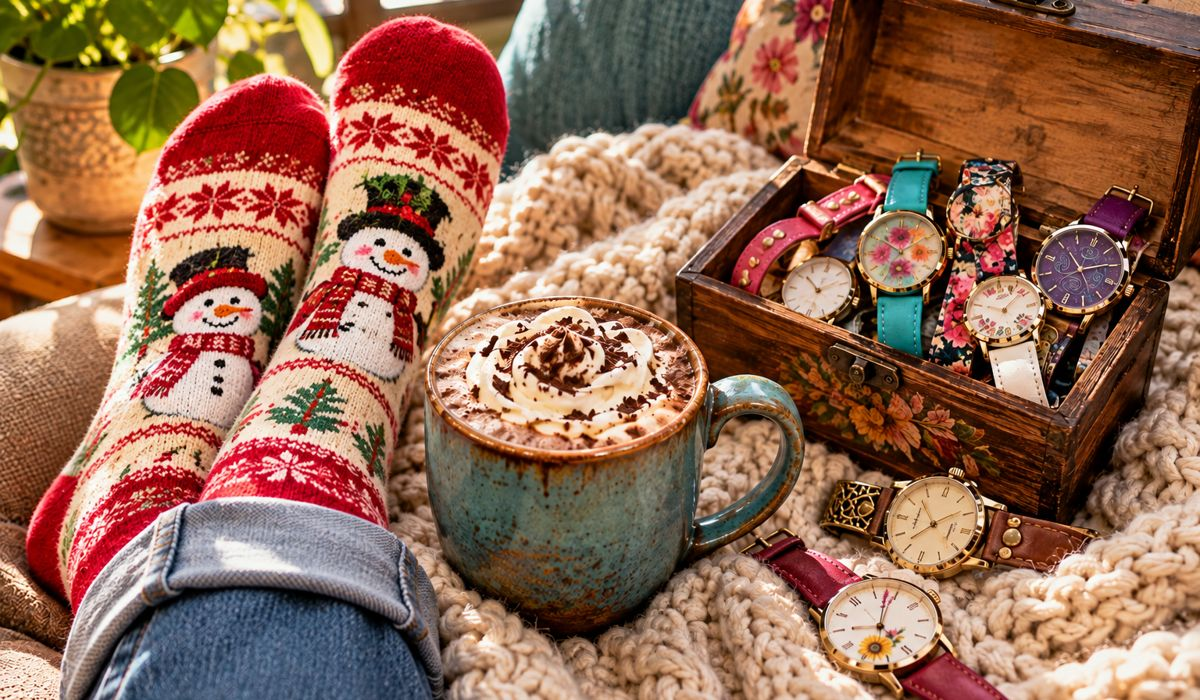
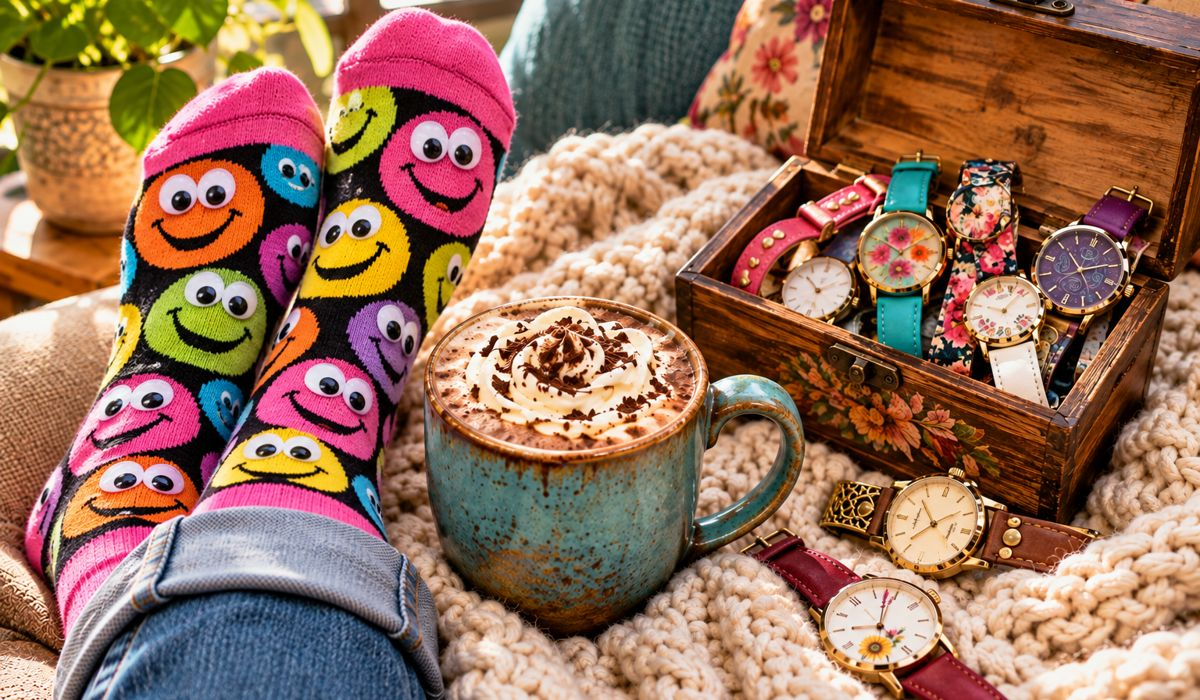
Pictures: everyday socks, winter drive, Tammey's fish tank
Claude-Session: https://claude.ai/code/session_019mceyNZZ2qR2bw7srWbZ76

diff --git a/overwhelmed-by-life-one-day-at-a-time.html b/overwhelmed-by-life-one-day-at-a-time.html
@@ -38,6 +38,7 @@
       <p class="lede">What a cold, dark pickup at 5 a.m. taught me about getting through just today.</p>
       <p class="byline"><img src="/images/tammey-sm.jpg" alt="" width="44" height="44"> By Tammey</p>
     </header>
+    <div class="wrap post-hero"><img src="/images/posts/overwhelmed-by-life-one-day-at-a-time-wide.jpg" alt="" width="1200" height="700"></div>
     <div class="wrap narrow">
       <div class="prose">
 <p>Have you ever cried in the shower?</p>
@@ -79,6 +80,7 @@
 <p>I couldn't focus on a book. My mind just wouldn't settle. But I <em>could</em> listen to an audiobook while I drove. So I did.</p>
 <p>I could put on a pair of pretty new socks. (Yes, the socks again. If you've read <a href="/self-care-isnt-selfish">my post about self-care</a>, you know.)</p>
 <p>I could sit and watch the fish in my beautiful fish tank, the one I loved so much.</p>
+<figure><img src="/images/posts/overwhelmed-by-life-one-day-at-a-time/fish-tank.jpg" alt="A colorful aquarium full of green plants, bright fish and a sunken ship, with trailing pothos plants on top" loading="lazy"><figcaption>My fish tank, one of the little things that got me through.</figcaption></figure>
 <p>None of these things fixed my life. But they gave me something good in today. And all of those little things added up. They lifted my spirits, and I started to heal.</p>
 <p>I also started each morning with a simple prayer:</p>
 <blockquote><p>"Lord, let me hear what you want me to hear, say what you want me to say, do what you want me to do, and see what you want me to see."</p></blockquote>

diff --git a/_source/posts/overwhelmed-by-life-one-day-at-a-time.html b/_source/posts/overwhelmed-by-life-one-day-at-a-time.html
@@ -37,6 +37,7 @@
 <p>I couldn't focus on a book. My mind just wouldn't settle. But I <em>could</em> listen to an audiobook while I drove. So I did.</p>
 <p>I could put on a pair of pretty new socks. (Yes, the socks again. If you've read <a href="/self-care-isnt-selfish">my post about self-care</a>, you know.)</p>
 <p>I could sit and watch the fish in my beautiful fish tank, the one I loved so much.</p>
+<figure><img src="/images/posts/overwhelmed-by-life-one-day-at-a-time/fish-tank.jpg" alt="A colorful aquarium full of green plants, bright fish and a sunken ship, with trailing pothos plants on top" loading="lazy"><figcaption>My fish tank, one of the little things that got me through.</figcaption></figure>
 <p>None of these things fixed my life. But they gave me something good in today. And all of those little things added up. They lifted my spirits, and I started to heal.</p>
 <p>I also started each morning with a simple prayer:</p>
 <blockquote><p>"Lord, let me hear what you want me to hear, say what you want me to say, do what you want me to do, and see what you want me to see."</p></blockquote>

diff --git a/resources.html b/resources.html
@@ -198,7 +198,7 @@
           </div>
         </a>
         <a class="post-card" href="/overwhelmed-by-life-one-day-at-a-time">
-          <div class="post-thumb thumb-purpose"><svg viewBox="0 0 24 24" fill="none" stroke="currentColor" stroke-width="1.4" stroke-linecap="round" stroke-linejoin="round" aria-hidden="true"><circle cx="12" cy="12" r="10"/><path d="m16.2 7.8-2.1 6.3-6.3 2.1 2.1-6.3z"/></svg></div>
+          <div class="post-thumb thumb-purpose"><img src="/images/posts/overwhelmed-by-life-one-day-at-a-time.jpg" alt="" loading="lazy" width="640" height="400"></div>
           <div class="post-body">
             <h3>Overwhelmed by Life? Take It One Day at a Time</h3>
             <p>What a cold, dark pickup at 5 a.m. taught me about getting through just today.</p>

diff --git a/self-care-isnt-selfish.html b/self-care-isnt-selfish.html
@@ -170,7 +170,7 @@
       </div>
       <div class="post-grid">
         <a class="post-card" href="/overwhelmed-by-life-one-day-at-a-time">
-          <div class="post-thumb thumb-purpose"></div>
+          <div class="post-thumb thumb-purpose"><img src="/images/posts/overwhelmed-by-life-one-day-at-a-time.jpg" alt="" loading="lazy" width="640" height="400"></div>
           <div class="post-body">
             <h3>Overwhelmed by Life? Take It One Day at a Time</h3>
             <p>What a cold, dark pickup at 5 a.m. taught me about getting through just today.</p>

diff --git a/feeling-lost-in-life.html b/feeling-lost-in-life.html
@@ -178,7 +178,7 @@
           </div>
         </a>
         <a class="post-card" href="/overwhelmed-by-life-one-day-at-a-time">
-          <div class="post-thumb thumb-purpose"></div>
+          <div class="post-thumb thumb-purpose"><img src="/images/posts/overwhelmed-by-life-one-day-at-a-time.jpg" alt="" loading="lazy" width="640" height="400"></div>
           <div class="post-body">
             <h3>Overwhelmed by Life? Take It One Day at a Time</h3>
             <p>What a cold, dark pickup at 5 a.m. taught me about getting through just today.</p>

diff --git a/ink-and-insight-unleashing-self-discovery-from-the-shadows-of-doubt.html b/ink-and-insight-unleashing-self-discovery-from-the-shadows-of-doubt.html
@@ -188,7 +188,7 @@
           </div>
         </a>
         <a class="post-card" href="/overwhelmed-by-life-one-day-at-a-time">
-          <div class="post-thumb thumb-purpose"></div>
+          <div class="post-thumb thumb-purpose"><img src="/images/posts/overwhelmed-by-life-one-day-at-a-time.jpg" alt="" loading="lazy" width="640" height="400"></div>
           <div class="post-body">
             <h3>Overwhelmed by Life? Take It One Day at a Time</h3>
             <p>What a cold, dark pickup at 5 a.m. taught me about getting through just today.</p>
